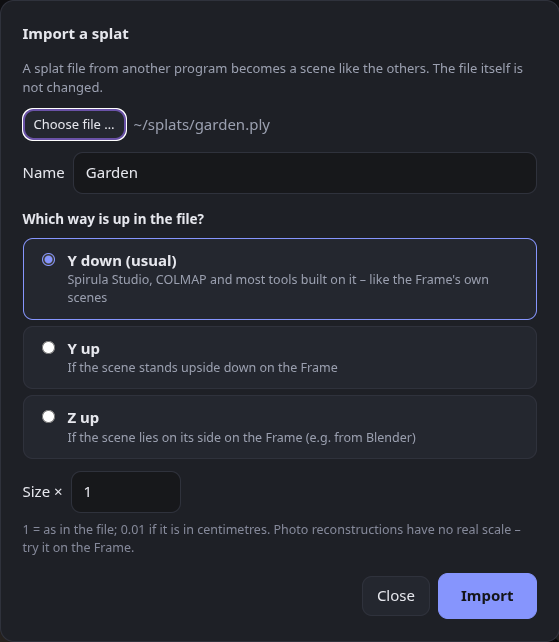
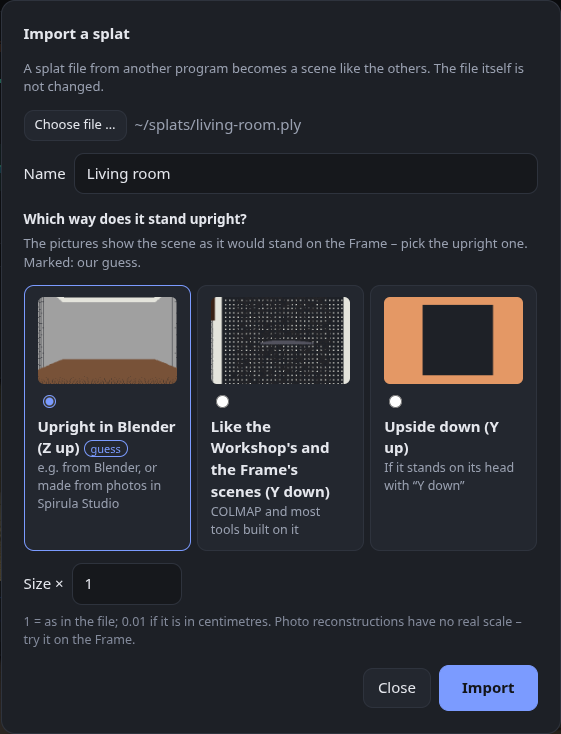
0.6.1: pick the upright picture on import; photo scenes from Spirula Studio are Z up

diff --git a/splat_workshop/server.py b/splat_workshop/server.py
@@ -31,7 +31,7 @@ from pathlib import Path
 from . import check, config
 from .i18n import T, detect
 
-VERSION = "0.6.0"
+VERSION = "0.6.1"
 CFG = config.load()
 ROOT = config.ROOT
 WEB = ROOT / "web"

diff --git a/CHANGELOG.md b/CHANGELOG.md
@@ -2,6 +2,18 @@
 
 All notable changes to Splat Workshop. The format follows [Keep a Changelog](https://keepachangelog.com/en/1.1.0/), versions follow [Semantic Versioning](https://semver.org/).
 
+## [0.6.1] – 2026-10-17
+
+### Changed
+
+- **Which way is up – pick the picture**: the import dialog shows a small picture for each choice, the scene as it would stand on the Frame seen from its start, so you simply pick the one standing upright. Our guess is preselected and marked (the vertical is the smaller of the scene's Y and Z extents).
+  - The choices say what you see: *Upright in Blender (Z up)*, *Like the Workshop's and the Frame's scenes (Y down)*, *Upside down (Y up)*.
+  - The pictures take a second or two (a few more for `.sog`, `.spz` and the like, which are read through splat-transform) and are kept, so picking the same file again is instant.
+
+### Fixed
+
+- **Scenes made from photos in Spirula Studio lay on their side**: 0.6.0 said Spirula Studio files have Y down and preselected that. That is only true for the Frame's own scenes, which are aligned to its tracking; a scene Spirula Studio makes from photos alone (`spirula sfm auto`) has Z up – checked with a scene made from 70 photos. The dialog now says so, and the guess picks Z up for such files.
+
 ## [0.6.0] – 2026-10-17
 
 ### Added
@@ -196,6 +208,7 @@ First release.
 - **Floor plans** (experimental) in two styles with a measuring tool.
 - Configurable video player; English and German interface.
 
+[0.6.1]: https://github.com/thunderheronight/splat-workshop/compare/v0.6.0...v0.6.1
 [0.6.0]: https://github.com/thunderheronight/splat-workshop/compare/v0.5.1...v0.6.0
 [0.5.1]: https://github.com/thunderheronight/splat-workshop/compare/v0.5.0...v0.5.1
 [0.5.0]: https://github.com/thunderheronight/splat-workshop/compare/v0.4.2...v0.5.0

diff --git a/README.de.md b/README.de.md
@@ -24,9 +24,9 @@ Arcturus Vision stellt die Rekonstruktions-Skripte und einen Spirula-Studio-Fork
 
 ## Neu in 0.6
 
-- 📥 **Eigene Splats importieren** – eine Splat-Datei aus einem anderen Programm (`.ply`, `.sog`, `.spz`, `.splat`, `.ksplat`) wird zu einer Szene wie die anderen: auf die Frame bringen, Fassungen oder ein Mesh machen. Du sagst, wo oben ist, und bei Bedarf die Größe.
+- 📥 **Eigene Splats importieren** – eine Splat-Datei aus einem anderen Programm (`.ply`, `.sog`, `.spz`, `.splat`, `.ksplat`) wird zu einer Szene wie die anderen: auf die Frame bringen, Fassungen oder ein Mesh machen. Du wählst das Bild, in dem sie aufrecht steht – das wahrscheinliche ist vorausgewählt – und bei Bedarf die Größe.
 
-<img src="docs/import.png" width="420" alt="Der Import-Dialog: Datei wählen, benennen, sagen, wo oben ist, und die Größe">
+<img src="docs/import.png" width="420" alt="Der Import-Dialog: Datei wählen, benennen, das Bild wählen, in dem die Szene aufrecht steht, und die Größe">
 <br><sub>Englische Oberfläche.</sub>
 
 ## Neu in 0.5

diff --git a/README.md b/README.md
@@ -26,9 +26,9 @@ Arcturus Vision publishes the reconstruction scripts and a Spirula Studio fork, 
 
 ## New in 0.6
 
-- 📥 **Import your own splats** – a splat file from another program (`.ply`, `.sog`, `.spz`, `.splat`, `.ksplat`) becomes a scene like the others: copy it to the Frame, make versions or a mesh. You say which way is up and, if needed, the size.
+- 📥 **Import your own splats** – a splat file from another program (`.ply`, `.sog`, `.spz`, `.splat`, `.ksplat`) becomes a scene like the others: copy it to the Frame, make versions or a mesh. Pick the picture in which it stands upright – the likely one is preselected – and, if needed, the size.
 
-<img src="docs/import.png" width="420" alt="The import dialog: choose a file, name it, say which way is up and the size">
+<img src="docs/import.png" width="420" alt="The import dialog: choose a file, name it, pick the picture in which the scene stands upright, and the size">
 
 ## New in 0.5
 
